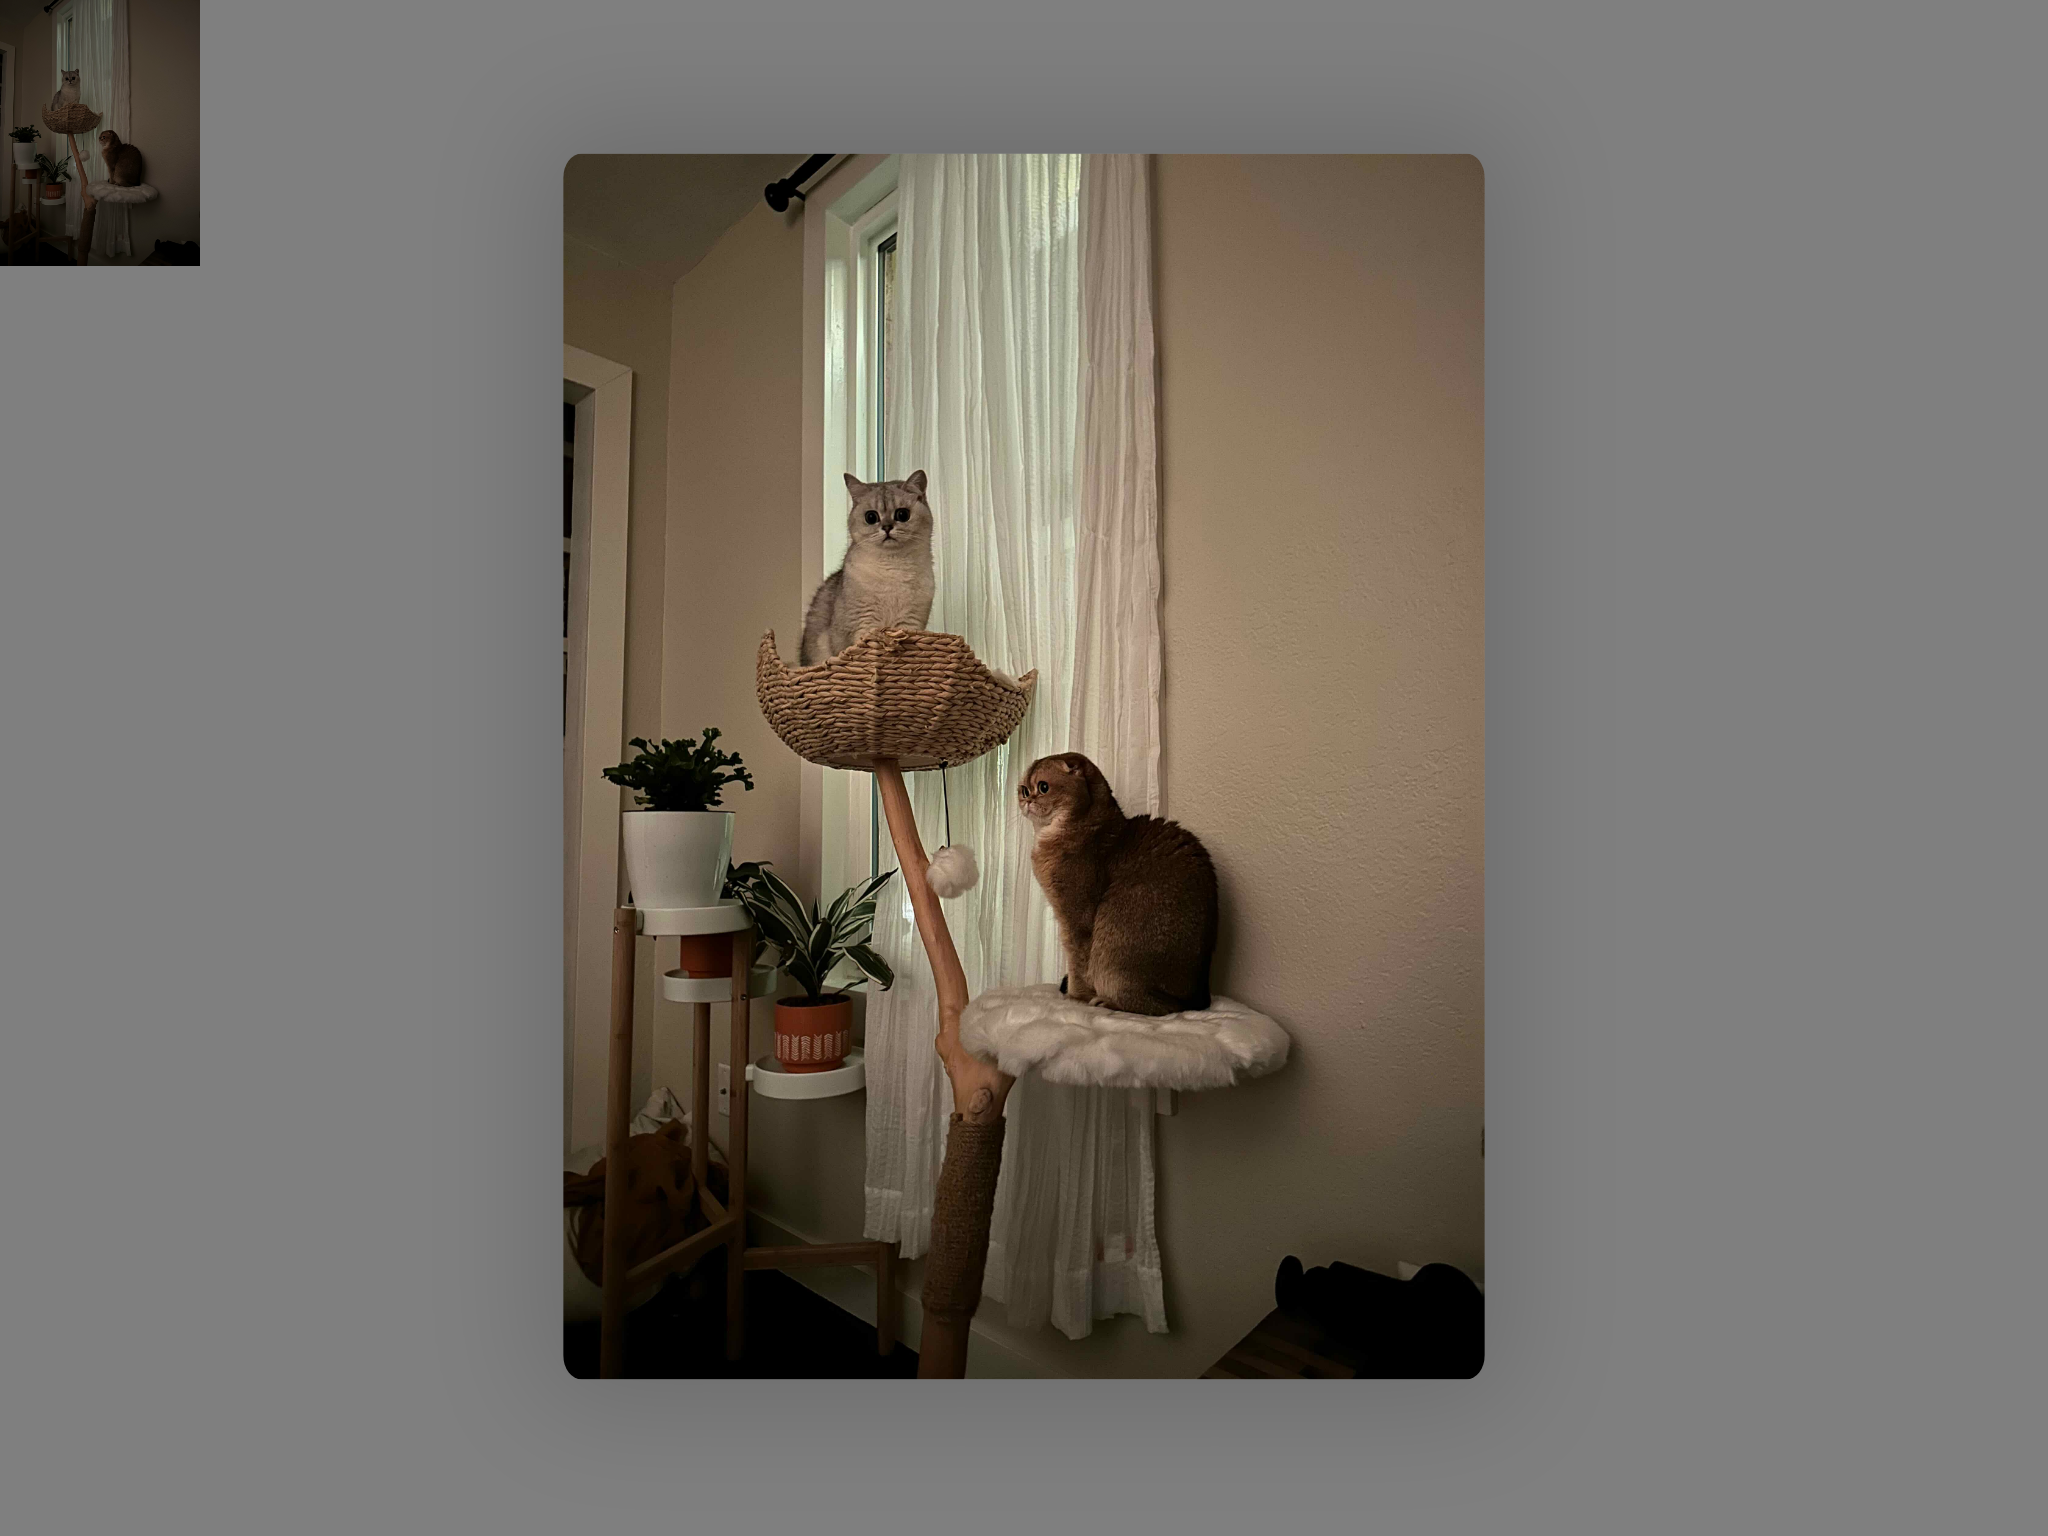
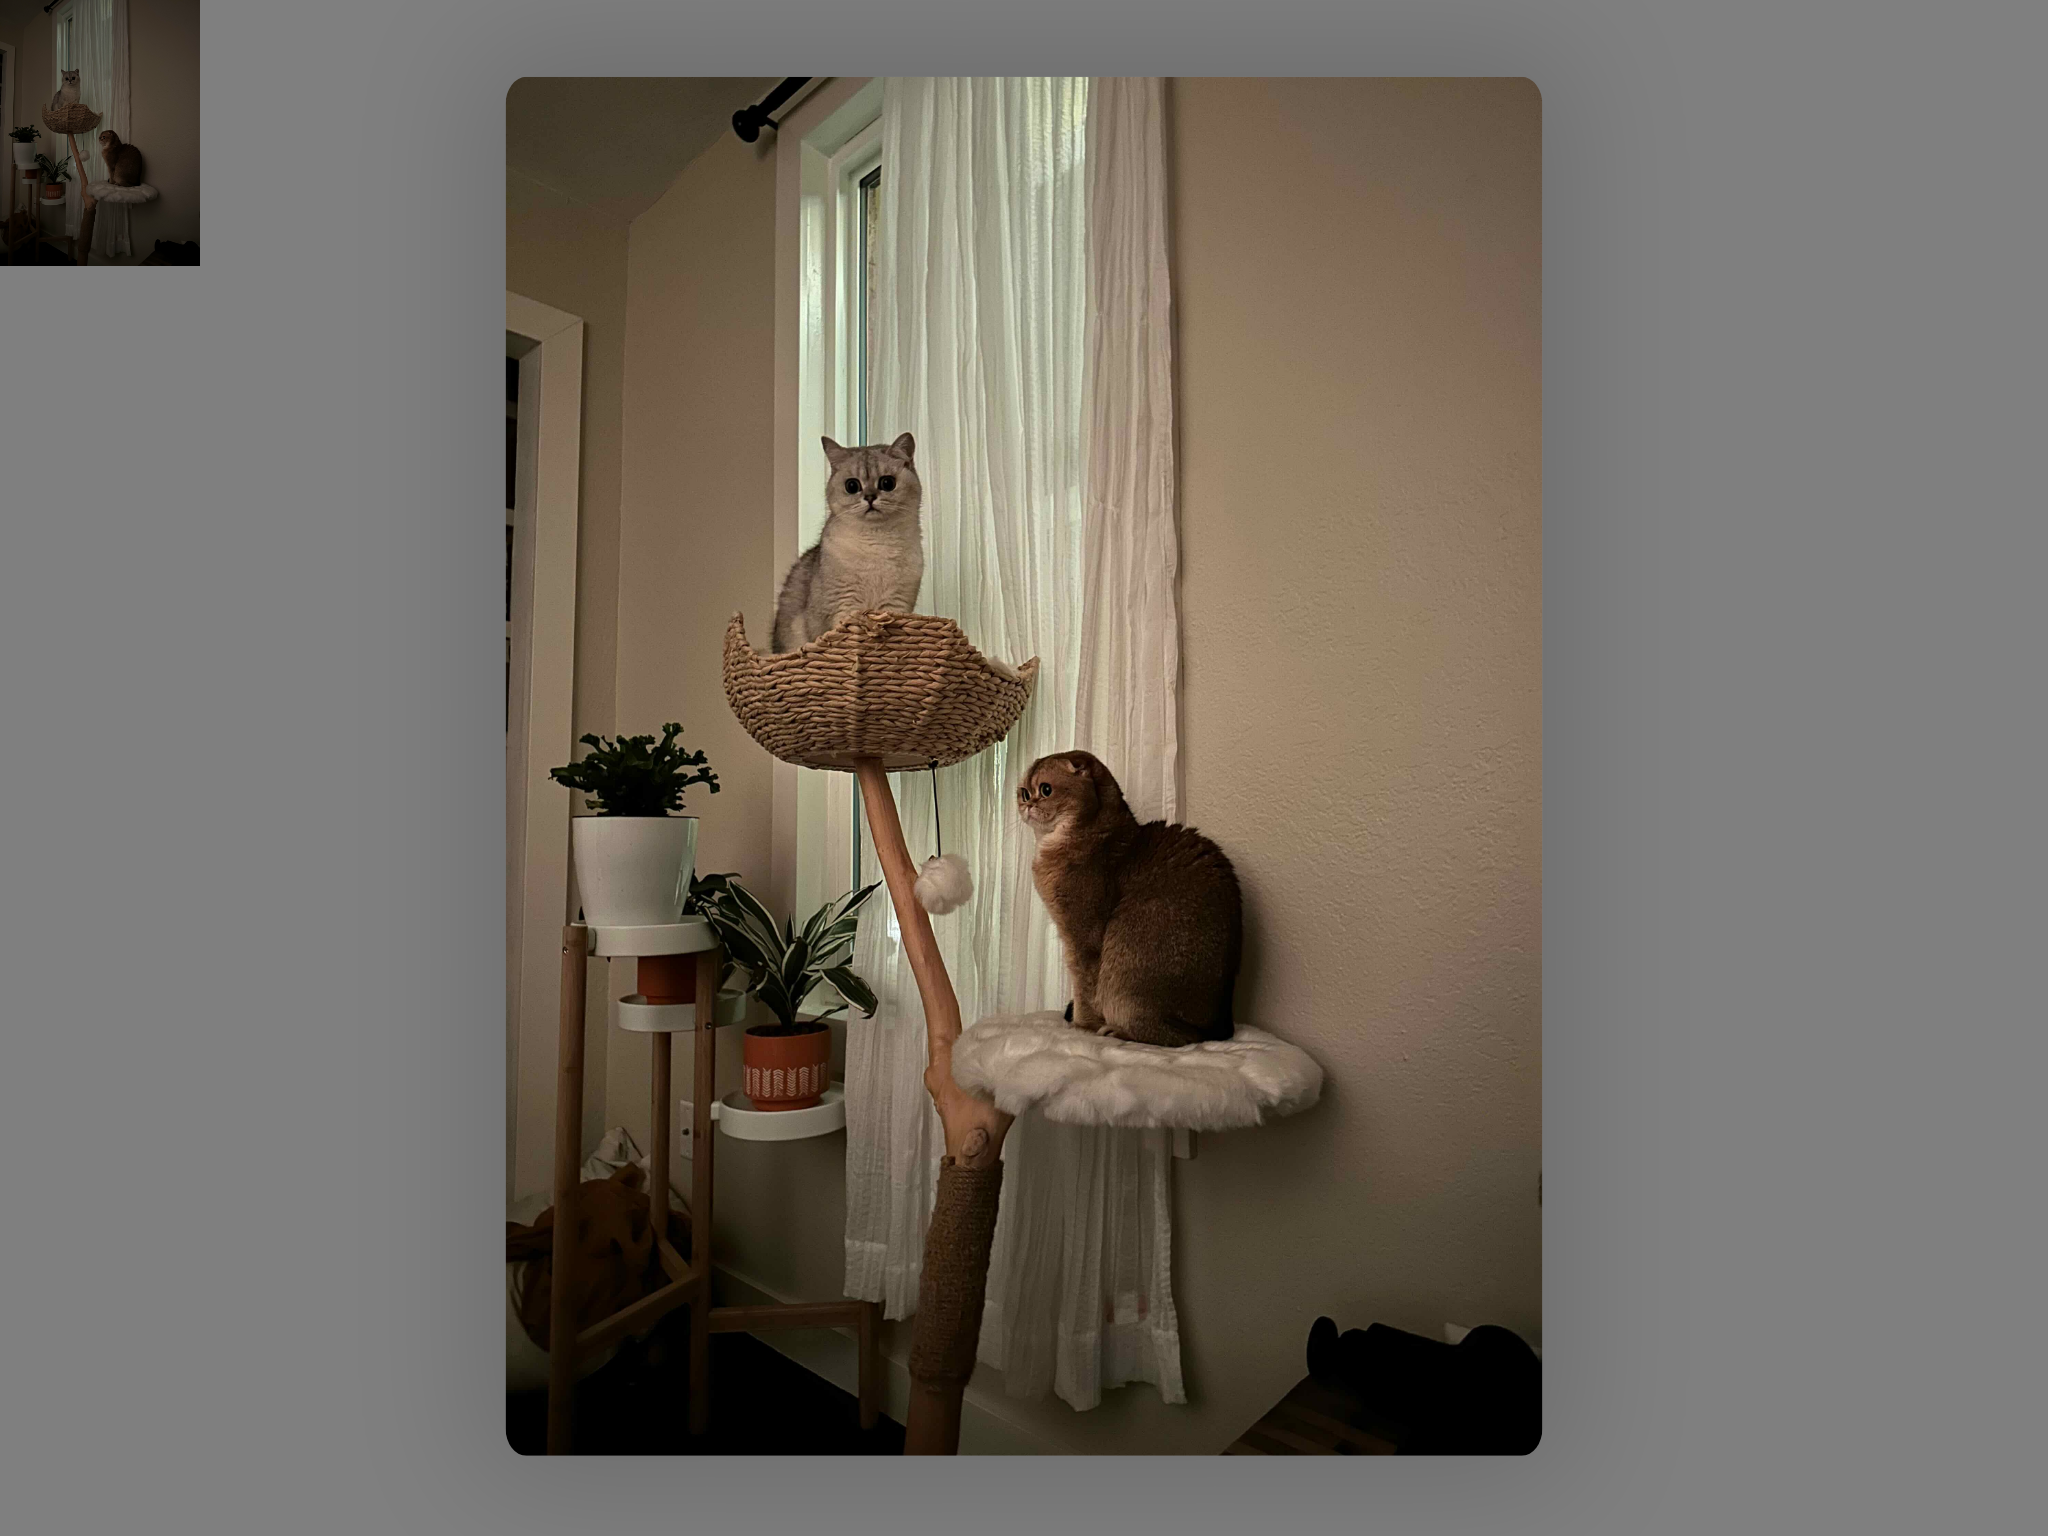
Make zoom pct an attribute

Changed region(s): [[0.2188, 0.0312, 0.7812, 0.9688]]

diff --git a/src/lightbox/Lightbox.ts b/src/lightbox/Lightbox.ts
@@ -50,6 +50,9 @@ export class Lightbox extends RapidElement {
   @property({ type: Boolean })
   zoom = false;
 
+  @property({ type: Number })
+  zoomPct = 0.9;
+
   private ele: HTMLElement;
   private left: number;
   private top: number;
@@ -93,13 +96,13 @@ export class Lightbox extends RapidElement {
 
     // set our destination and size
     if (this.height > this.width) {
-      desiredHeight = window.innerHeight * 0.8;
+      desiredHeight = window.innerHeight * this.zoomPct;
       this.scale = desiredHeight / this.height;
       desiredWidth = this.width * this.scale;
     }
     // landscape
     else {
-      desiredWidth = window.innerWidth * 0.8;
+      desiredWidth = window.innerWidth * this.zoomPct;
       this.scale = desiredWidth / this.width;
       desiredHeight = this.height * this.scale;
     }
